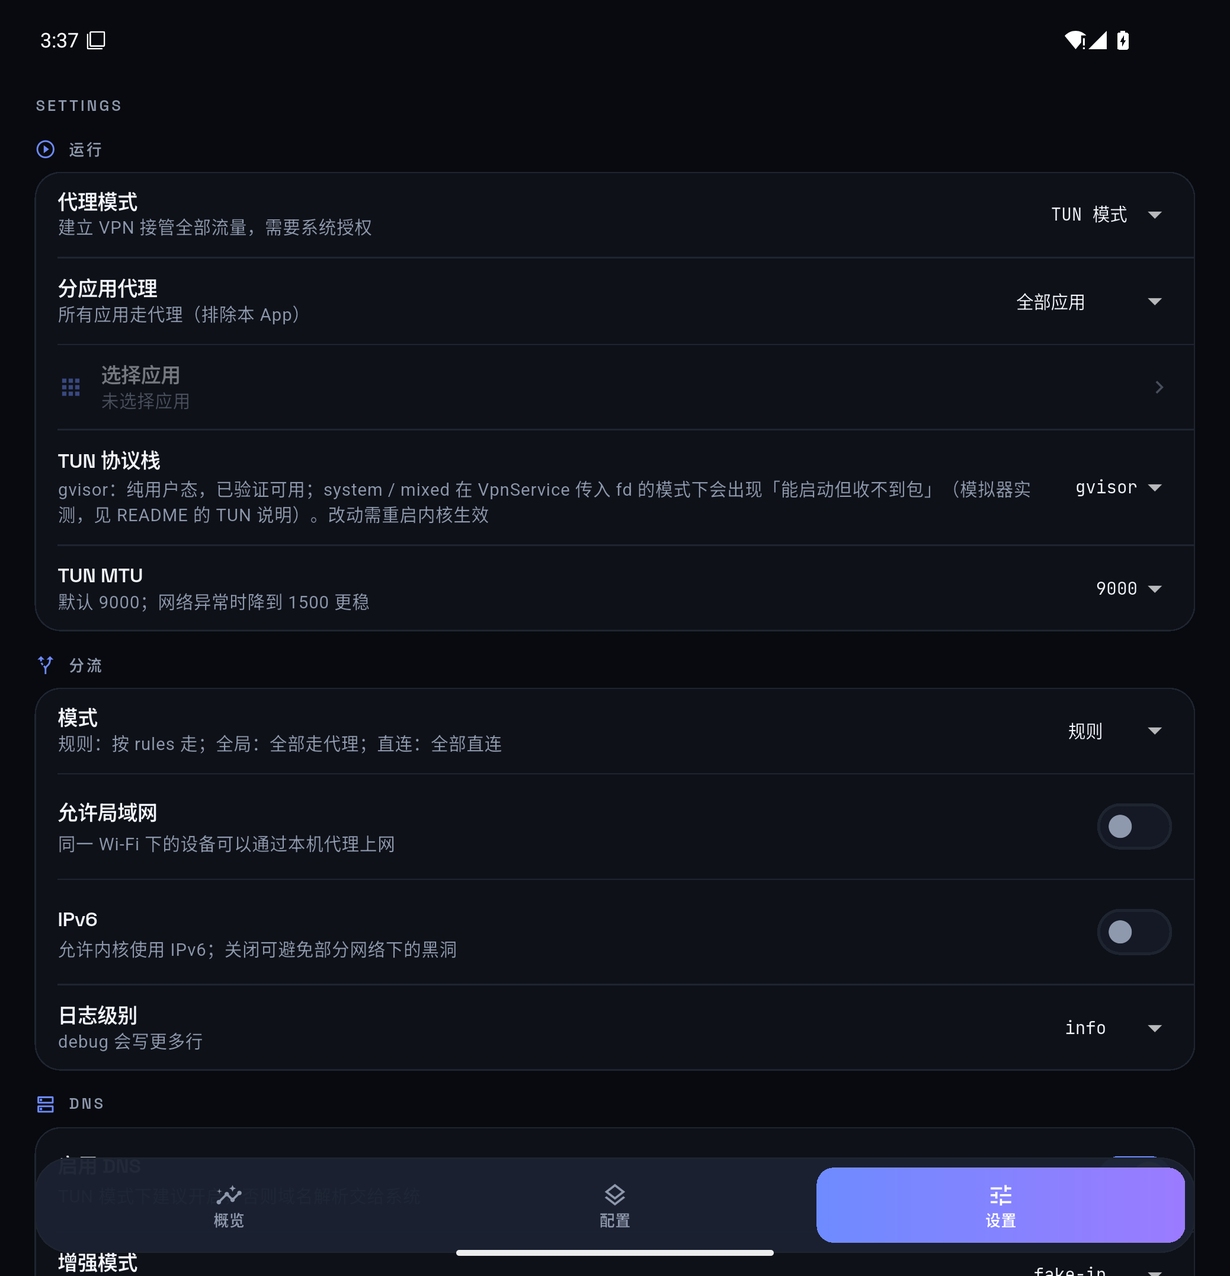
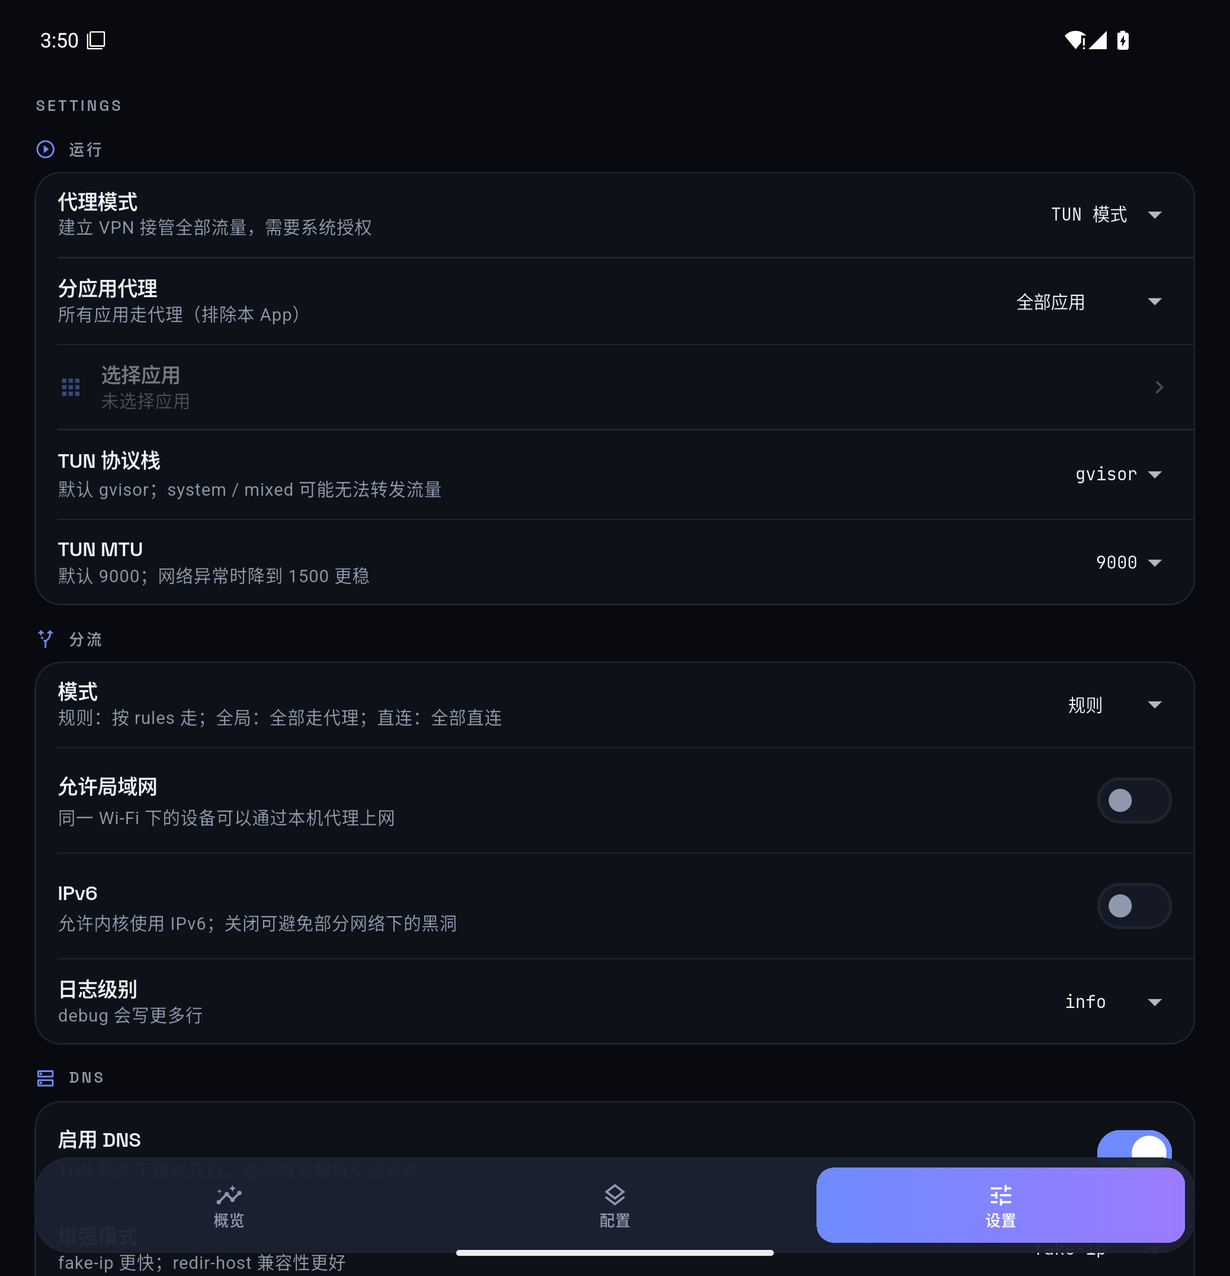
docs: 设置文案只留用户能看懂的说明，README 重写为面向用户
- settings：TUN 协议栈说明改成一句『默认 gvisor；system / mixed 可能无法转发流量』，原理与排障结论移到代码注释
- README：去掉内部进度表、sing-tun/parseTun 之类的排障叙述与 adb logcat 片段，改成功能 / 下载 / 快速上手 / 界面 / 设置开关表 / 协议 / 开发 / 目录 / 许可
- 截图更新 03-settings

diff --git a/lib/ui/settings_page.dart b/lib/ui/settings_page.dart
@@ -200,12 +200,14 @@ class _SettingsPageState extends State<SettingsPage> {
                   await _applyRestart(() => state.setRoutePackages(picked));
                 },
               ),
+              // 技术背景（只给维护者看）：system / mixed 栈会自己给网卡套地址再 bind，
+              // 而本项目的 TUN 是 VpnService 建好、把 fd 传来的，内核只把它当既有网卡
+              // （sing-tun: FileDescriptor != 0 时仅 os.NewFile 包装，stack_system.go /
+              // stack_mixed.go 依赖 interfaceFinder/bindInterface）。实测两个栈能启动、
+              // ip addr 有 198.18.0.1/30，但 core.log 没有任何连接、网页空白；gvisor 正常。
               _ChoiceRow<String>(
                 label: 'TUN 协议栈',
-                description:
-                    'gvisor：纯用户态，已验证可用；system / mixed 在 VpnService 传入 fd 的模式下'
-                    '会出现「能启动但收不到包」（模拟器实测，见 README 的 TUN 说明）。'
-                    '改动需重启内核生效',
+                description: '默认 gvisor；system / mixed 可能无法转发流量',
                 value: state.tunStack,
                 items: const ['gvisor', 'system', 'mixed'],
                 labelOf: (v) => v,

diff --git a/README.md b/README.md
@@ -1,203 +1,134 @@
 # ClashDeck
 
-**面向 Android 的 mihomo（Clash.Meta）图形客户端 —— 直接把 YAML 当数据库来编辑。**
+**Android 上的 mihomo（Clash.Meta）图形客户端：把 YAML 当数据库来编辑。**
 
-Clash 系客户端大多只让你旁路改 YAML 文本：想加一个 vless 节点、把节点挪进某个策略组、
-调一下规则顺序，都得开编辑器手写，还得记住内核那一堆字段名。ClashDeck 想做的是：
+Clash 系客户端大多只让你旁路改 YAML 文本——加一个 vless 节点、把节点挪进某个策略组、
+调一下规则顺序，都得开编辑器手写，还要记住内核那一堆字段名。ClashDeck 做的是把这件事
+变成点按：
 
-- **可视化加节点**：13 种协议（vless / vmess / trojan / ss / ssr / socks5 / http / hysteria2 /
-  tuic / wireguard / snell / ssh / anytls）的字段表内建，表单按协议动态生成，TLS / 传输层
-  （ws / grpc / h2 / http / reality / ech）分组折叠；
-- **跨组拖拽**：长按节点芯片拖到别的策略组；拖到顶部「节点列表」= 从当前组移除。顶部「节点列表」默认折叠，展开后能看到**全部**节点（不管在不在组里）；
-- **规则可视化**：拖动排序、点选改目标、`no-resolve` 勾选、`MATCH` 兜底检查；
-- **粘贴即导入**：`vless://` `vmess://` `ss://` `trojan://` … 分享链接、整段 base64 订阅、
-  或者一份完整 YAML，一种输入框全接；**导入可以落到已有配置里**（不是只能新建），
-  解析完直接选进哪个策略组；
-- **订阅链接**：填机场订阅 URL 就能一次把节点全拉进来（明文 / base64 / 整份 YAML 三种
-  订阅体都认，顺手读 `subscription-userinfo` 显示流量），地址会记在配置旁边
-  `<名字>.yaml.meta.json` 里，下次打开自动填好、可以再拉一次（同名节点跳过，不覆盖你改过的）；
-- **无损**：所有编辑都在原始源码上做局部替换，**注释、空行、键顺序、内核私有字段全部保留**。
-  改完一个标量就只变那一行（有测试断言）。
-- **内置内核**：打包 mihomo（linux/arm64 静态二进制），点一下就用 VpnService 起 TUN，
-  运行页能看状态、速率、日志，跑着改配置会热重载而不掉线。
+- **可视化加节点**：13 种协议的字段表内建，表单按协议动态生成，TLS / 传输层
+  （ws / grpc / h2 / http / reality / ech）分组折叠
+- **跨组拖拽**：长按节点芯片拖到别的策略组；拖到顶部「节点列表」= 从当前组移除。
+  节点列表默认折叠，展开后能看到全部节点（不管在不在组里）
+- **规则可视化**：拖动排序、点选改目标、`no-resolve` 勾选、`MATCH` 兜底检查，
+  还能整段导入别人给的规则片段（规则 + 策略组 + provider 一起合并）
+- **导入一条龙**：`vless://` `vmess://` `ss://` `trojan://` … 分享链接、base64 订阅、
+  整份 YAML，一个输入框全接；可以导入到已有配置，并直接选进哪个策略组
+- **订阅链接**：填机场订阅地址就能一次把节点拉进来（明文 / base64 / 整份 YAML 都认，
+  顺带读流量信息），地址会记住，下次打开预填、可以再拉一次（同名节点跳过）
+- **无损编辑**：所有改动都在原文件上做局部替换，注释、空行、键顺序与内核私有字段全部保留
+- **内置内核**：随包带 mihomo，点一下就用 VpnService 启 TUN；跑着改配置会热重载不掉线
 
 ## 下载安装
 
-预编译安装包在 Releases 里：**https://github.com/yurin7/ClashDeck/releases/latest**
+预编译安装包在 Releases：**https://github.com/yurin7/ClashDeck/releases/latest**
 
 | 文件 | ABI | 适用 |
 | --- | --- | --- |
 | `ClashDeck-0.1.0-arm64-v8a.apk` | arm64-v8a | 绝大多数手机（33.1 MB，推荐） |
 | `ClashDeck-0.1.0-x86_64.apk` | x86_64 | 模拟器 / x86 平板（35.2 MB） |
 
-- `minSdk 24`（Android 7.0+），`targetSdk 36`；APK 里已带 mihomo 内核与 GEOIP/GEOSITE 数据，装完即用
+- `minSdk 24`（Android 7.0+），`targetSdk 36`；APK 内已带内核与 GEOIP/GEOSITE 数据，装完即用
 - 当前用 **debug keystore 签名**（自用/测试足够，不用于上架）；没有 armeabi-v7a 包
-- 安装后首次「启动内核」会请求 VPN 授权；不想接管全局流量可以在设置里切「仅代理端口」模式
+- 首次「启动内核」会请求 VPN 授权；不想接管全局流量，可在设置里切「仅代理端口」
 
-工作名 ClashDeck，包名 `dev.clashdeck`，许可证 **GPL-3.0**（与 mihomo 一致）。
-完整条款见 [LICENSE](LICENSE)；随包分发的 mihomo 二进制、GEOIP/GEOSITE 数据与所做的
-构建补丁都在 [NOTICE.md](NOTICE.md) 里交代清楚了。
+包名 `dev.clashdeck`，许可证 **GPL-3.0**（与 mihomo 一致）。完整条款见 [LICENSE](LICENSE)；
+随包分发的 mihomo 二进制、GEOIP/GEOSITE 数据与所做的构建补丁见 [NOTICE.md](NOTICE.md)。
 
-## 现在到哪一步了
+## 快速上手
 
-| 模块 | 状态 |
-| --- | --- |
-| YAML 无损编辑 / 模型 / 30 类体检 / 10 种链接解析 / 链接与订阅导入 | ✅ 241 个单测全绿 |
-| 三页 IA：底部悬浮岛切换「概览 / 配置 / 设置」，一个 `AppShell` 持有唯一内核控制器 | ✅ |
-| 配置列表、导入、分组拖拽、节点动态表单、规则编辑、YAML 视图 | ✅ |
-| mihomo 子进程 + VpnService 传 fd + 运行页 | ✅ 模拟器（Android 16 / x86_64）跑通：TUN 监听 `tun0(fd=158)`、REST 在线、测速 87–148 ms；待真机复验 |
-| 代理设置开关化（TUN/仅端口、分应用代理、TUN MTU、DNS、分流模式、局域网、IPv6、订阅自动更新、日志级别） | ✅ 逐项写进 YAML 或 sidecar 并验证生效 |
-
-关于 TUN：**支持**，而且是默认模式——`VpnService.Builder` 建 TUN、`detachFd()` 后把 fd 交给
-mihomo（`tun.file-descriptor`），内核在子进程里从 TUN 收包。
-
-协议栈三选（`gvisor` / `system` / `mixed`）已经接回设置页，但**实测只有 gVisor 在「系统传入 fd」的
-模式下能真正转发流量**：
-
-- 早前 `system` / `mixed` 报 `listen tcp4 198.18.0.1:0: bind: cannot assign requested address`，
-  原因是两边地址不一致——`VpnService` 用 `172.19.0.1/30` 建网卡，而 mihomo 的
-  `config.parseTun()` 会忽略配置里的 `inet4-address`，只用 `dns.fake-ip-range` 截成 `/30`
-  （默认 `198.18.0.1/30`）。现在两端都跟着 `fake-ip-range` 走（Dart 算地址 → 传给 Kotlin 建网卡），
-  bind 错误已消失。
-- 但地址对齐后，`system` / `mixed` 仍然「能启动、能监听 `tun0`、`ip addr` 有地址，却收不到任何包」：
-  同一配置同一次测试，`gVisor` 立刻打出 `[TCP] dial …` 连接日志与真实流量，`system`/`mixed` 的
-  `core.log` 只有启动行、网页一片空白（sing-tun 的 `stack_system.go` / `stack_mixed.go` 依赖
-  自己创建并管理网卡，不认外部 fd）。
-- 因此设置页保留下拉便于在真机上复验，但说明里写明「gvisor 已验证可用，system / mixed 可能收不到
-  包」。MTU 仍然可调（实测改成 1500 后 `ip addr show tun0` 与内核日志都跟着变）。
-| 应用图标 / 启动页 | ⬜ 仍是 Flutter 默认 logo |
-
-模拟器上验证过的完整链路（`adb logcat -s ClashDeck.Core`）：
-
-```
-[TUN] Tun adapter listening at: tun0(fd=158)([198.18.0.1/30],[]), mtu: 9000, ip stack: gVisor
-RESTful API listening at: 127.0.0.1:9090
-Load MMDB file: /data/user/0/dev.clashdeck/files/mihomo/geoip.metadb
-[TCP] 172.19.0.1:54618 --> storage.googleapis.com:443 match Match using PROXY[DIRECT]
-```
-
-两处不踩过的坑已写进架构文档：`ProcessBuilder` 在 Android 上会关掉所有继承 fd（改自己
-fork/exec，见 §5）；`GOOS=linux` 会漏掉 mihomo 的 android netlink 修复（改构建约束，见 §5.2）。
-
-编辑器在模拟器上逐条走通的交互（`adb shell run-as dev.clashdeck cat files/profiles/*.yaml` 对账）：
-
-- 「添加节点」按协议渲染 schema 表单 → 保存 → 选择加入哪个组；写出的 YAML 键序是人读的顺序
-  （`name / type / server / port / uuid …`），注释与顶层顺序原样保留；
-- 组内芯片的删除图标 = 从组移除（节点仍在「节点列表」里），组卡片「添加成员」再拉回来；组里已经包含全部节点和策略组时再点 ⊕ 会给提示；
-- 「添加规则」插到 `MATCH` **之前**（追加到最后内核根本不读），保存后磁盘上的 YAML 是
-  `GEOIP,CN,DIRECT` / `DOMAIN-SUFFIX,google.com,PROXY` / `MATCH,PROXY`；
-- 「导入规则」能吃整段 Clash 片段，不只是规则行：`rules` 之外还会把 `proxy-groups`
-  （新建组、给已有的组补成员、成员在当前配置里不存在就跳过并提示）、
-  `rule-providers` / `proxy-providers` 一起合并；规则目标若在配置里不存在，会顺手建一个
-  只含 `DIRECT` 的 `select` 组，保证导入完就能跑；
-- 长按拖拽本身没法用 `adb input` 合成手势可靠触发（每次 `input` 都是独立进程，指针会话不连续），
-  测试走的是同一套 `ConfigOps` 的「移除成员 / 添加成员」两条路径。
-
-架构与内核启动细节见 [docs/ARCHITECTURE.md](docs/ARCHITECTURE.md)。
+1. 「配置」页点「导入」：贴一份 YAML、几条分享链接，或一个订阅地址；也可以「新建配置」
+   从模板开始
+2. 进配置 →「代理」Tab：点「添加节点」（手填 / 粘链接 / 订阅三选一），芯片长按可拖到别的组
+3. 「规则」Tab：拖动手柄排序、点一行编辑；「导入规则」可以吞整段 Clash 片段
+4. 「YAML」Tab：随时核对原文，注释与键顺序都在
+5. 「概览」页点「启动内核」：TUN 接管流量；设置页里能开分应用代理、DNS、分流模式、
+   订阅自动更新等（见下表）
 
 ## 界面
 
-图都是在 x86_64 模拟器（Android 16）上真实截的，配置是 demo（4 个组、9 个节点、7 条规则）。
+图是在 x86_64 模拟器（Android 16）上真实截的，配置为 demo（4 个组、9 个节点、7 条规则）。
 
-视觉方向：**暗色优先的网络仪表盘**。近黑画布（`#080A0F`）、1px 细线分隔、无阴影卡片；
-标题用 Space Grotesk（变量字体，字重走 `fontVariations`），数据（YAML / 规则类型 / 日志 /
-计数 / 延迟）用 JetBrains Mono；主色 `#6E8BFF` 到 `#9B7BFF` 的渐变只出现在主要动作上；
-状态用会呼吸的 `StatusDot`（绿=运行中、琥珀=过渡、红=错误）。全部收在
-`lib/ui/theme.dart`（令牌 + 组件主题 + `SemanticColors` 扩展）与 `lib/ui/widgets.dart`
-（`AppCard` / `MicroLabel` / `Hairline` / `StatTile` / `StatusDot` / `AccentButton` /
-`Sparkline` / `Pill` / `MetaRow`）里；浅色是同一套系统的另一面，同样验过。
+| | |
+| --- | --- |
+| ![概览](docs/screenshots/01-overview.png) | ![配置](docs/screenshots/02-profiles.png) |
+| 概览：状态英雄卡（速率 / 迷你折线 / PID）+ 代理模式与分流模式分段开关 + 当前配置 + 内核日志 | 配置：三项统计 + 行式配置列表，每行显示节点/组/规则数与校验状态 |
+| ![设置](docs/screenshots/03-settings.png) | ![代理板](docs/screenshots/04-proxy-board.png) |
+| 设置：运行 / 分流 / DNS / 订阅 / 导入 / 其它六个分区 | 代理板：组面板 + 节点芯片，长按跨组拖拽；组套组显示为策略组芯片 |
+| ![规则](docs/screenshots/05-rules.png) | ![YAML](docs/screenshots/06-yaml.png) |
+| 规则：等宽类型 + 序号 + `payload → 目标`，拖动排序，MATCH 带旗标 | YAML：等宽字体，注释/空行/键顺序原样保留，可直接整段编辑 |
+| ![运行](docs/screenshots/07-runtime.png) | ![添加节点](docs/screenshots/08-add-node-sheet.png) |
+| 运行页：状态 + 大号速率 + 策略组当前选择，点一行即可切节点 | 添加节点：手填 / 粘链接 / 订阅三路入口 |
+| ![订阅](docs/screenshots/09-subscription.png) | ![节点表单](docs/screenshots/10-node-form.png) |
+| 订阅：拉取后显示节点数与标题，地址记在配置旁边，下次预填 | 节点表单：按协议 schema 渲染，只显示这个协议真的有的字段 |
 
-### 设置里能开哪些开关
+## 设置里能开哪些开关
 
-属于内核配置的项写进 YAML（`yaml_edit` 无损改，注释与键序不动），属于客户端行为的项写进
-`<配置>.yaml.meta.json` 的 `app` 段 —— 这样导出的 YAML 交给别的客户端用也不会多出未知键。
+属于内核配置的项写进 YAML（无损改，注释与键序不动），属于客户端行为的项写进
+`<配置>.yaml.meta.json` 的 `app` 段——这样把 YAML 交给别的客户端用也不会多出未知键。
 
 | 分区 | 开关 | 落到哪里 |
 | --- | --- | --- |
-| 运行 | 代理模式：**TUN 模式** / **仅代理端口** | meta `app.proxyMode`；决定起不起 VPN 与 TUN |
-| 运行 | 分应用代理：全部应用 / 仅选中的应用 / 排除选中的应用 + 选择应用（`listApps` 读已安装应用） | meta `app.routeMode` + `app.routePackages` |
-| 运行 | TUN 协议栈：gvisor / system / mixed（默认 gvisor；gvisor 已验证可转发，其余见 TUN 说明） | YAML `tun.stack`，运行时原样透传 |
+| 运行 | 代理模式：TUN 模式 / 仅代理端口 | meta `app.proxyMode`；决定起不起 VPN 与 TUN |
+| 运行 | 分应用代理：全部应用 / 仅选中的 / 排除选中的 + 选择应用 | meta `app.routeMode` + `app.routePackages` |
+| 运行 | TUN 协议栈：gvisor / system / mixed（默认 gvisor） | YAML `tun.stack` |
 | 运行 | TUN MTU：1500 / 4064 / 9000 | YAML `tun.mtu` |
 | 分流 | 模式：规则 / 全局 / 直连 | YAML `mode` |
 | 分流 | 允许局域网 | YAML `allow-lan`（开启后同 Wi-Fi 可用本机 7890） |
 | 分流 | IPv6 | YAML `ipv6` |
 | 分流 | 日志级别：silent…debug | YAML `log-level` |
-| DNS | 启用、fake-ip / redir-host、fake-ip 范围、名称服务器列表 | YAML `dns.*` |
-| 订阅 | 订阅地址、自动更新周期（关/6/12/24/72 小时）、上次更新时间、立即更新 | meta `subscriptionUrl` + prefs `lastSubscriptionUpdate` |
-| 导入 | 粘贴 YAML / 链接 / 订阅地址 | 写磁盘并打开编辑器 |
+| DNS | 启用、fake-ip / redir-host、fake-ip 范围、名称服务器 | YAML `dns.*` |
+| 订阅 | 订阅地址、自动更新周期（关/6/12/24/72 小时）、上次更新、立即更新 | meta `subscriptionUrl` + prefs `lastSubscriptionUpdate` |
+| 导入 | 粘贴 YAML / 链接 / 订阅地址 | 写盘并打开编辑器 |
 | 其它 | 开机自启、内核版本与许可 | meta `app.launchOnBoot` |
 
-**TUN 支持**：支持。`VpnService.Builder` 建 TUN → `detachFd()` 清 `FD_CLOEXEC` → fork/exec 的
-mihomo 子进程直接拿到同一个 fd 号 → 内核按 `tun.file-descriptor` 接管。模拟器实测
-`TUN 路由：mode=all，名单=0，实际允许=0，mtu=9000`、`tun0(fd=168)([198.18.0.1/30])`、`ip addr show tun0` 有设备；
-切到「仅代理端口」后不存在 `tun0`，但 `mixed-port 7890` 可用（主机 `curl -x` 取百度返回 200）。
+TUN 默认使用 `gvisor` 协议栈。`system` / `mixed` 也能选，但在这套「VpnService 传入 fd」
+的接法下可能起得来做不了转发，建议保持默认。
 
-| | |
-| --- | --- |
-| ![概览](docs/screenshots/01-overview.png) | ![配置](docs/screenshots/02-profiles.png) |
-| 概览：运行状态英雄卡（呼吸点 / PID / 上下行 / 迷你折线）+ 代理模式与分流模式分段开关 + 当前配置卡 + 内核日志；底部悬浮岛三项切换 | 配置：渐变字标 + 三项统计（配置/节点/订阅），配置是一个面板里的行式列表，行间 1px 细线 |
-| ![设置](docs/screenshots/03-settings.png) | ![代理板](docs/screenshots/04-proxy-board.png) |
-| 设置：运行 / 分流 / DNS / 订阅 / 导入 / 其它 六个分区，每项都是可操作控件；内核运行中会在顶部提示「改动需要重载后生效」 | 代理板：组面板（类型图标 + 名称 + 等宽类型/成员数）+ 节点芯片，长按跨组拖拽；组套组显示为策略组芯片 |
-| ![规则](docs/screenshots/05-rules.png) | ![YAML](docs/screenshots/06-yaml.png) |
-| 规则：等宽类型 + 序号 + `payload → 目标`，拖动左侧手柄排序，MATCH 带旗标与「兜底」标记 | YAML 源码：等宽字体、注释/空行/键顺序原样保留，可直接整段编辑 |
-| ![运行](docs/screenshots/07-runtime.png) | ![添加节点](docs/screenshots/08-add-node-sheet.png) |
-| 运行页：呼吸状态点 + 大号等宽速率 + 迷你折线，策略组「当前」从内核 REST 读回，点一行即可切节点 | 添加节点：手填 / 粘链接 / 订阅三路入口 |
-| ![订阅](docs/screenshots/09-subscription.png) | ![节点表单](docs/screenshots/10-node-form.png) |
-| 订阅：拉取后显示节点数与订阅标题，地址记在 sidecar meta 里下次预填 | 节点表单：按协议 schema 渲染，只显示这个协议真的有的字段；分区用微标签 + 竖条 |
+## 支持的协议
+
+vless / vmess / trojan / shadowsocks / shadowsocksr / socks5 / http(s) / hysteria2 /
+tuic / wireguard / snell / ssh / anytls，含 reality、ws、grpc、h2、ech 等传输层选项。
 
 ## 开发
 
-环境（本机已装好，D 盘）：
-
 ```powershell
-. D:\dev\env.ps1          # Flutter 3.50 / JDK 17 / Go 1.25 / Android SDK 环境变量
 cd E:\project\Agents\ClashAndroid
-
-flutter test              # 241 个单测（Windows 上直接跑，不用设备）
+flutter test              # 单测（Windows 上直接跑，不用设备）
 flutter analyze
 flutter build apk --debug # 产物 build\app\outputs\flutter-apk\app-debug.apk
 ```
 
-想只打 64 位包（体积从 ~130 MB 降到 ~99 MB）：
+只打 64 位包（体积从 ~130 MB 降到 ~99 MB）：
 
 ```powershell
-flutter clean                                     # 换 ABI 组合必须先 clean，否则会留旧 ABI 的残余 .so
+flutter clean   # 换 ABI 组合必须先 clean，否则会留旧 ABI 的残余 .so
 flutter build apk --debug --target-platform android-arm64,android-x64
 ```
 
-> 别在 `android/app/build.gradle.kts` 里写 `ndk { abiFilters }`：Flutter Gradle 插件在本文件之后
-> 用 `-Ptarget-platform` 覆盖它，不会有任何效果。
-
 ### 内核二进制不在仓库里
 
-`android/app/src/main/jniLibs/{arm64-v8a,x86_64}/libmihomo.so` 是预编译的 mihomo 内核
-（arm64 约 57 MB、x86_64 约 61 MB，均 `-ldflags="-s -w"` 已 strip），两个加起来 118 MB、
-单文件也超过 GitHub 的 100 MB 上限，所以 `.gitignore` 把它们排除了。**克隆下来直接
-`flutter build apk` 能编译，但运行内核会提示「找不到内核文件」**，先补一步：
+`android/app/src/main/jniLibs/{arm64-v8a,x86_64}/libmihomo.so` 是预编译的 mihomo 内核，
+两个加起来 118 MB、单文件也超过 GitHub 的 100 MB 上限，所以没有入库。**克隆后直接构建能
+通过，但运行时内核启动会提示找不到文件**，先补一步：
 
 ```powershell
-# 需要 Go 1.25+ 与一份 mihomo 源码（Alpha 分支）
 git clone --depth 1 -b Alpha https://github.com/MetaCubeX/mihomo D:\dev\_downloads\mihomo-src\mihomo-Alpha
-.\tool\build_core.ps1        # 复制源码 → 打 anet 构建约束补丁 → 交叉编译两个 ABI
+.\tool\build_core.ps1        # 复制源码 → 打构建约束补丁 → 交叉编译两个 ABI
 ```
 
-`tool/build_core.ps1` 会就地把 `component/iface/anet/{interface_android.go,netlink_android.go}`
-改名并加 `//go:build android || linux`（原因见 [docs/ARCHITECTURE.md](docs/ARCHITECTURE.md) §5.2），
-产物直接写进 `jniLibs/<abi>/libmihomo.so`。交叉编译的完整命令在
-[docs/ARCHITECTURE.md](docs/ARCHITECTURE.md) 第 7 节。armeabi-v7a 没有内核，32 位设备上启动会提示
-「找不到内核文件」。
+产物会直接写进 `jniLibs/<abi>/libmihomo.so`。armeabi-v7a 没有内核，32 位设备上无法启动。
 
 ## 目录
 
 ```
 lib/core/     纯 Dart：yaml / model / edit / schema / parse / validate（无 Flutter 依赖，可单测）
-lib/data/     配置文件落盘（tmp+rename 原子写）
-lib/state/    EditorState：当前文档 + 撤销栈 + 脏标记
-lib/ui/       首页 / 编辑页(代理·规则·YAML) / 拖拽面板 / 动态表单 / 运行页
-lib/runtime/  mihomo REST 客户端、运行配置生成、子进程控制器、GEOIP/GEOSITE 数据落盘
+lib/data/     配置与偏好落盘（tmp+rename 原子写）
+lib/state/    编辑器状态、设置状态
+lib/ui/       概览 / 配置 / 设置三页 + 编辑页（代理·规则·YAML）+ 动态表单
+lib/runtime/  mihomo REST 客户端、运行配置生成、子进程控制器、GEOIP/GEOSITE 落盘
 android/app/src/main/kotlin/dev/clashdeck/   VpnService、内核进程、MethodChannel 桥
-assets/geo/    随包携带的 mihomo GEOIP/GEOSITE 数据（8.0 + 4.2 MB），首启铺到内核工作目录
+assets/geo/   随包携带的 GEOIP/GEOSITE 数据，首启铺到内核工作目录
 ```
 
-
-
+架构与内核启动细节见 [docs/ARCHITECTURE.md](docs/ARCHITECTURE.md)。
